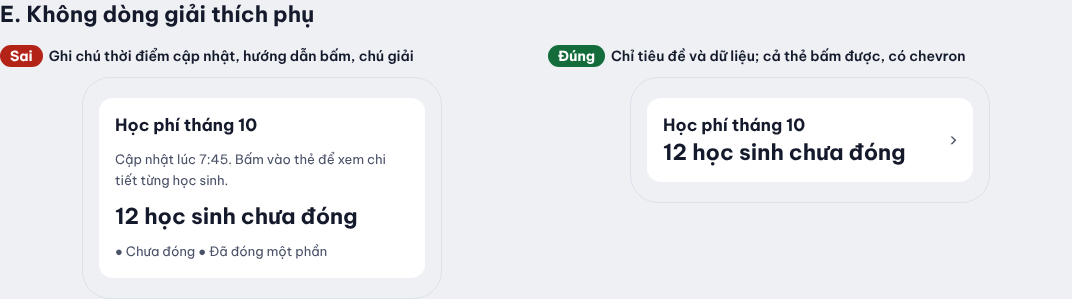
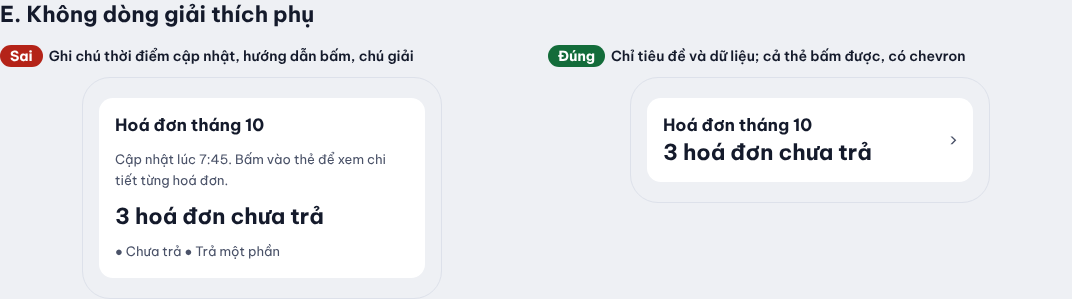
Ví dụ Sai/Đúng: đổi sang nhiều lĩnh vực trung lập
Bán hàng, giao hàng, bài viết, lịch hẹn, hoá đơn, hỗ trợ khách hàng, ngân hàng,
phòng khám; bỏ bối cảnh trung tâm giáo dục để ví dụ không gắn với một dự án.

Claude-Session: https://claude.ai/code/session_01SboK9zdYjdTFr8m2DJkgNT

diff --git a/foundations/examples/index.html b/foundations/examples/index.html
@@ -72,21 +72,21 @@
     <div class="cols">
       <figure class="bad"><figcaption data-annotation><b>Sai</b>Sáu card cùng cỡ, mỗi card một màu: không biết nhìn đâu</figcaption>
         <div class="phone"><div class="grid2">
-          <div class="card" style="background:#e6ebf8"><p class="t-label">Học sinh</p><p class="t-num">128</p></div>
-          <div class="card" style="background:#e3f4ea"><p class="t-label">Lớp</p><p class="t-num">24</p></div>
-          <div class="card" style="background:#fdf1dc"><p class="t-label">Chờ duyệt</p><p class="t-num">5</p></div>
-          <div class="card" style="background:#fde8e6"><p class="t-label">Chưa thu</p><p class="t-num">12</p></div>
-          <div class="card" style="background:#efe6fb"><p class="t-label">Buổi hôm nay</p><p class="t-num">18</p></div>
-          <div class="card" style="background:#e1f3f7"><p class="t-label">Tin nhắn</p><p class="t-num">3</p></div>
+          <div class="card" style="background:#e6ebf8"><p class="t-label">Đơn mới</p><p class="t-num">32</p></div>
+          <div class="card" style="background:#e3f4ea"><p class="t-label">Khách hàng</p><p class="t-num">128</p></div>
+          <div class="card" style="background:#fdf1dc"><p class="t-label">Cần gửi</p><p class="t-num">14</p></div>
+          <div class="card" style="background:#fde8e6"><p class="t-label">Hoàn tiền</p><p class="t-num">2</p></div>
+          <div class="card" style="background:#efe6fb"><p class="t-label">Sắp hết hàng</p><p class="t-num">5</p></div>
+          <div class="card" style="background:#e1f3f7"><p class="t-label">Đánh giá mới</p><p class="t-num">9</p></div>
         </div></div>
       </figure>
       <figure class="good"><figcaption data-annotation><b>Đúng</b>Một card nổi bật ba tầng, nút trắng; phần còn lại lùi về một danh sách</figcaption>
         <div class="phone"><div class="stack">
-          <div class="hl"><p>Chờ duyệt</p><p class="big">5 đơn</p><p>3 chuyển lịch, 2 nghỉ học</p><button class="btn btn-white" type="button">Duyệt đơn</button></div>
+          <div class="hl"><p>Cần gửi hôm nay</p><p class="big">14 đơn</p><p>3 đơn đã quá hạn</p><button class="btn btn-white" type="button">Gửi đơn</button></div>
           <div class="card rows">
-            <div class="row"><span class="grow">Buổi hôm nay</span><span class="val">18</span><span class="chev">›</span></div>
-            <div class="row"><span class="grow">Học phí chưa thu</span><span class="val">12</span><span class="chev">›</span></div>
-            <div class="row"><span class="grow">Học sinh đang học</span><span class="val">128</span><span class="chev">›</span></div>
+            <div class="row"><span class="grow">Đơn mới</span><span class="val">32</span><span class="chev">›</span></div>
+            <div class="row"><span class="grow">Sắp hết hàng</span><span class="val">5</span><span class="chev">›</span></div>
+            <div class="row"><span class="grow">Đánh giá mới</span><span class="val">9</span><span class="chev">›</span></div>
           </div>
         </div></div>
       </figure>
@@ -99,21 +99,21 @@
     <div class="cols">
       <figure class="bad"><figcaption data-annotation><b>Sai</b>Nhãn cách đều ô trên và ô dưới, hai nhóm dính nhau</figcaption>
         <div class="phone"><div style="display:grid;gap:14px">
-          <label>Mã học sinh</label><div class="field">HS0412</div>
-          <label>Môn</label><div class="field">Toán</div>
-          <label>Giáo viên</label><div class="field">Cô Thu Hà</div>
-          <label>Ngày bắt đầu</label><div class="field">Thứ Hai 3/11</div>
+          <label>Họ tên</label><div class="field">Lê Minh Khoa</div>
+          <label>Số điện thoại</label><div class="field">0912 345 678</div>
+          <label>Địa chỉ</label><div class="field">24 Hàng Chiếu, Hà Nội</div>
+          <label>Ngày giao</label><div class="field">Thứ Hai 3/11</div>
         </div></div>
       </figure>
       <figure class="good"><figcaption data-annotation><b>Đúng</b>Nhãn sát ô, giữa nhóm gấp đôi trong nhóm</figcaption>
         <div class="phone"><div style="display:grid;gap:28px">
           <div style="display:grid;gap:16px">
-            <div style="display:grid;gap:6px"><label>Mã học sinh</label><div class="field">HS0412</div></div>
-            <div style="display:grid;gap:6px"><label>Môn</label><div class="field">Toán</div></div>
+            <div style="display:grid;gap:6px"><label>Họ tên</label><div class="field">Lê Minh Khoa</div></div>
+            <div style="display:grid;gap:6px"><label>Số điện thoại</label><div class="field">0912 345 678</div></div>
           </div>
           <div style="display:grid;gap:16px">
-            <div style="display:grid;gap:6px"><label>Giáo viên</label><div class="field">Cô Thu Hà</div></div>
-            <div style="display:grid;gap:6px"><label>Ngày bắt đầu</label><div class="field">Thứ Hai 3/11</div></div>
+            <div style="display:grid;gap:6px"><label>Địa chỉ</label><div class="field">24 Hàng Chiếu, Hà Nội</div></div>
+            <div style="display:grid;gap:6px"><label>Ngày giao</label><div class="field">Thứ Hai 3/11</div></div>
           </div>
         </div></div>
       </figure>
@@ -126,14 +126,14 @@
     <div class="cols">
       <figure class="bad"><figcaption data-annotation><b>Sai</b>Khoảng dòng 1,2 và tiêu đề IN HOA: dấu chồng chạm dòng trên</figcaption>
         <div class="phone"><div class="card stack">
-          <h3 style="text-transform:uppercase;line-height:1.1;font-size:20px">Nguyễn Thị Hường, lớp Tiếng Việt nâng cao</h3>
-          <p style="line-height:1.2">Thứ Bảy này trường tổ chức ngày hội đọc sách. Phụ huynh đăng ký tham gia trước thứ Năm để nhà trường chuẩn bị chỗ ngồi.</p>
+          <h3 style="text-transform:uppercase;line-height:1.1;font-size:20px">Hướng dẫn đổi trả trong ba mươi ngày</h3>
+          <p style="line-height:1.2">Sản phẩm còn nguyên tem được đổi miễn phí tại mọi cửa hàng. Mang theo hoá đơn hoặc mã đơn hàng để nhân viên kiểm tra nhanh hơn.</p>
         </div></div>
       </figure>
       <figure class="good"><figcaption data-annotation><b>Đúng</b>Thân 1,6, tiêu đề chữ thường 1,3</figcaption>
         <div class="phone"><div class="card stack">
-          <h3 style="line-height:1.3;font-size:20px">Nguyễn Thị Hường, lớp Tiếng Việt nâng cao</h3>
-          <p style="line-height:1.6">Thứ Bảy này trường tổ chức ngày hội đọc sách. Phụ huynh đăng ký tham gia trước thứ Năm để nhà trường chuẩn bị chỗ ngồi.</p>
+          <h3 style="line-height:1.3;font-size:20px">Hướng dẫn đổi trả trong ba mươi ngày</h3>
+          <p style="line-height:1.6">Sản phẩm còn nguyên tem được đổi miễn phí tại mọi cửa hàng. Mang theo hoá đơn hoặc mã đơn hàng để nhân viên kiểm tra nhanh hơn.</p>
         </div></div>
       </figure>
     </div>
@@ -145,19 +145,19 @@
     <div class="cols">
       <figure class="bad"><figcaption data-annotation><b>Sai</b>Card cao chỉ một dòng ở đầu; card danh sách có đệm trên dưới gấp đôi</figcaption>
         <div class="phone"><div class="stack">
-          <div class="card" style="height:150px"><h3>Lịch dạy hôm nay</h3></div>
+          <div class="card" style="height:150px"><h3>Lịch hẹn hôm nay</h3></div>
           <div class="card" style="padding:32px 16px"><div class="rows" style="padding:0">
-            <div class="row"><span class="grow">Toán 9A</span><span class="val">8:00</span></div>
-            <div class="row"><span class="grow">Toán 8B</span><span class="val">14:00</span></div>
+            <div class="row"><span class="grow">Cắt tóc, Anh Tú</span><span class="val">9:00</span></div>
+            <div class="row"><span class="grow">Gội đầu, Chị Lan</span><span class="val">14:00</span></div>
           </div></div>
         </div></div>
       </figure>
       <figure class="good"><figcaption data-annotation><b>Đúng</b>Card ôm nội dung; dòng đầu và cuối sát đệm thường của card</figcaption>
         <div class="phone"><div class="stack">
-          <h3>Lịch dạy hôm nay</h3>
+          <h3>Lịch hẹn hôm nay</h3>
           <div class="card rows">
-            <div class="row"><span class="grow">Toán 9A</span><span class="val">8:00</span></div>
-            <div class="row"><span class="grow">Toán 8B</span><span class="val">14:00</span></div>
+            <div class="row"><span class="grow">Cắt tóc, Anh Tú</span><span class="val">9:00</span></div>
+            <div class="row"><span class="grow">Gội đầu, Chị Lan</span><span class="val">14:00</span></div>
           </div>
         </div></div>
       </figure>
@@ -170,15 +170,15 @@
     <div class="cols">
       <figure class="bad"><figcaption data-annotation><b>Sai</b>Ghi chú thời điểm cập nhật, hướng dẫn bấm, chú giải</figcaption>
         <div class="phone"><div class="card stack">
-          <h3>Học phí tháng 10</h3>
-          <p class="t-label">Cập nhật lúc 7:45. Bấm vào thẻ để xem chi tiết từng học sinh.</p>
-          <p class="t-num">12 học sinh chưa đóng</p>
-          <p class="t-label">● Chưa đóng ● Đã đóng một phần</p>
+          <h3>Hoá đơn tháng 10</h3>
+          <p class="t-label">Cập nhật lúc 7:45. Bấm vào thẻ để xem chi tiết từng hoá đơn.</p>
+          <p class="t-num">3 hoá đơn chưa trả</p>
+          <p class="t-label">● Chưa trả ● Trả một phần</p>
         </div></div>
       </figure>
       <figure class="good"><figcaption data-annotation><b>Đúng</b>Chỉ tiêu đề và dữ liệu; cả thẻ bấm được, có chevron</figcaption>
         <div class="phone"><div class="card" style="display:flex;align-items:center;gap:12px">
-          <div style="flex:1;display:grid;gap:2px"><h3>Học phí tháng 10</h3><p class="t-num">12 học sinh chưa đóng</p></div>
+          <div style="flex:1;display:grid;gap:2px"><h3>Hoá đơn tháng 10</h3><p class="t-num">3 hoá đơn chưa trả</p></div>
           <span class="chev">›</span>
         </div></div>
       </figure>
@@ -191,16 +191,16 @@
     <div class="cols">
       <figure class="bad"><figcaption data-annotation><b>Sai</b>Thanh màu bên trái, phải đoán nghĩa từng màu</figcaption>
         <div class="phone"><div class="stack">
-          <div class="card" style="border-left:5px solid #b42318"><h3>Trần Gia Hân</h3><p class="t-label">HS0412</p></div>
-          <div class="card" style="border-left:5px solid #d97706"><h3>Lê Minh Khoa</h3><p class="t-label">HS0398</p></div>
-          <div class="card" style="border-left:5px solid #136c3a"><h3>Phạm Thu An</h3><p class="t-label">HS0377</p></div>
+          <div class="card" style="border-left:5px solid #b42318"><h3>Lỗi đăng nhập</h3><p class="t-label">#2041</p></div>
+          <div class="card" style="border-left:5px solid #d97706"><h3>Đổi email tài khoản</h3><p class="t-label">#2045</p></div>
+          <div class="card" style="border-left:5px solid #136c3a"><h3>Xuất hoá đơn VAT</h3><p class="t-label">#2047</p></div>
         </div></div>
       </figure>
-      <figure class="good"><figcaption data-annotation><b>Đúng</b>Avatar, tên, mã cùng nhau; trạng thái là chip có chữ</figcaption>
+      <figure class="good"><figcaption data-annotation><b>Đúng</b>Trạng thái là chip có chữ, đọc là hiểu</figcaption>
         <div class="phone"><div class="card rows">
-          <div class="row"><span class="avatar">GH</span><span class="grow"><b>Trần Gia Hân</b><br><span class="t-label">HS0412</span></span><span class="chip chip-alert">Nghỉ 3 buổi</span></div>
-          <div class="row"><span class="avatar">MK</span><span class="grow"><b>Lê Minh Khoa</b><br><span class="t-label">HS0398</span></span><span class="chip">Chờ xếp lớp</span></div>
-          <div class="row"><span class="avatar">TA</span><span class="grow"><b>Phạm Thu An</b><br><span class="t-label">HS0377</span></span><span class="chip chip-brand">Đang học</span></div>
+          <div class="row"><span class="grow"><b>Lỗi đăng nhập</b><br><span class="t-label">#2041</span></span><span class="chip chip-alert">Quá hạn 2 ngày</span></div>
+          <div class="row"><span class="grow"><b>Đổi email tài khoản</b><br><span class="t-label">#2045</span></span><span class="chip">Chờ khách</span></div>
+          <div class="row"><span class="grow"><b>Xuất hoá đơn VAT</b><br><span class="t-label">#2047</span></span><span class="chip chip-brand">Đang xử lý</span></div>
         </div></div>
       </figure>
     </div>
@@ -212,15 +212,15 @@
     <div class="cols">
       <figure class="bad"><figcaption data-annotation><b>Sai</b>Nhãn ở mọi tab, chữ 11 px, tab chọn chỉ đổi màu chữ</figcaption>
         <div class="phone"><div style="display:flex;justify-content:space-around;padding:8px 0;border-radius:16px;background:#fff">
-          <span style="display:grid;justify-items:center;font-size:11px;color:var(--brand);font-weight:600"><svg width="22" height="22" viewBox="0 0 24 24" fill="none" stroke="currentColor" stroke-width="1.75"><path d="M3 11l9-7 9 7v9a1 1 0 0 1-1 1h-5v-6H9v6H4a1 1 0 0 1-1-1z"/></svg>Tổng quan</span>
-          <span style="display:grid;justify-items:center;font-size:11px;color:var(--ink-2)"><svg width="22" height="22" viewBox="0 0 24 24" fill="none" stroke="currentColor" stroke-width="1.75"><circle cx="12" cy="8" r="4"/><path d="M4 21c1-4 4-6 8-6s7 2 8 6"/></svg>Học sinh</span>
+          <span style="display:grid;justify-items:center;font-size:11px;color:var(--brand);font-weight:600"><svg width="22" height="22" viewBox="0 0 24 24" fill="none" stroke="currentColor" stroke-width="1.75"><path d="M3 11l9-7 9 7v9a1 1 0 0 1-1 1h-5v-6H9v6H4a1 1 0 0 1-1-1z"/></svg>Trang chủ</span>
+          <span style="display:grid;justify-items:center;font-size:11px;color:var(--ink-2)"><svg width="22" height="22" viewBox="0 0 24 24" fill="none" stroke="currentColor" stroke-width="1.75"><circle cx="12" cy="8" r="4"/><path d="M4 21c1-4 4-6 8-6s7 2 8 6"/></svg>Tài khoản</span>
           <span style="display:grid;justify-items:center;font-size:11px;color:var(--ink-2)"><svg width="22" height="22" viewBox="0 0 24 24" fill="none" stroke="currentColor" stroke-width="1.75"><rect x="4" y="5" width="16" height="15" rx="2"/><path d="M8 3v4M16 3v4M4 10h16"/></svg>Lịch</span>
           <span style="display:grid;justify-items:center;font-size:11px;color:var(--ink-2)"><svg width="22" height="22" viewBox="0 0 24 24" fill="none" stroke="currentColor" stroke-width="1.75"><path d="M4 5h16v11H8l-4 4z"/></svg>Tin nhắn</span>
         </div></div>
       </figure>
       <figure class="good"><figcaption data-annotation><b>Đúng</b>Tab chọn nở thành viên icon và nhãn, tab khác chỉ icon, viên không chạm mép</figcaption>
         <div class="phone"><nav class="nav" aria-label="Điều hướng chính">
-          <span class="on"><svg viewBox="0 0 24 24" stroke-width="1.75"><path d="M3 11l9-7 9 7v9a1 1 0 0 1-1 1h-5v-6H9v6H4a1 1 0 0 1-1-1z"/></svg>Tổng quan</span>
+          <span class="on"><svg viewBox="0 0 24 24" stroke-width="1.75"><path d="M3 11l9-7 9 7v9a1 1 0 0 1-1 1h-5v-6H9v6H4a1 1 0 0 1-1-1z"/></svg>Trang chủ</span>
           <span><svg viewBox="0 0 24 24" stroke-width="1.75"><circle cx="12" cy="8" r="4"/><path d="M4 21c1-4 4-6 8-6s7 2 8 6"/></svg></span>
           <span><svg viewBox="0 0 24 24" stroke-width="1.75"><rect x="4" y="5" width="16" height="15" rx="2"/><path d="M8 3v4M16 3v4M4 10h16"/></svg></span>
           <span><svg viewBox="0 0 24 24" stroke-width="1.75"><path d="M4 5h16v11H8l-4 4z"/></svg></span>
@@ -237,24 +237,24 @@
         <div class="phone"><div class="stack center">
           <div class="ok-icon"><svg viewBox="0 0 24 24" stroke-width="2"><path d="M5 12l5 5 9-10"/></svg></div>
           <h3 style="font-size:22px">Thành công!</h3>
-          <p class="muted">Hệ thống đã gửi thông báo tới phụ huynh và giáo viên liên quan.</p>
+          <p class="muted">Hệ thống đã gửi thông báo tới người nhận và lưu vào lịch sử giao dịch.</p>
           <button class="btn btn-primary" type="button">OK</button>
         </div></div>
       </figure>
       <figure class="good"><figcaption data-annotation><b>Đúng</b>Icon và "Đã …"; thẻ người; thẻ đậm khoá–giá trị kết thúc bằng "… lúc"; một dòng tóm tắt; nút</figcaption>
         <div class="phone"><div class="stack">
           <div class="ok-icon"><svg viewBox="0 0 24 24" stroke-width="2"><path d="M5 12l5 5 9-10"/></svg></div>
-          <h3 class="center" style="font-size:22px">Đã chuyển lịch</h3>
-          <div class="card" style="display:flex;align-items:center;gap:12px"><span class="avatar">GH</span><span><b>Trần Gia Hân</b><br><span class="t-label">HS0412</span></span></div>
+          <h3 class="center" style="font-size:22px">Đã chuyển tiền</h3>
+          <div class="card" style="display:flex;align-items:center;gap:12px"><span class="avatar">MK</span><span><b>Lê Minh Khoa</b><br><span class="t-label">Tài khoản ••4417</span></span></div>
           <div class="kv">
-            <div class="row"><span class="grow">Môn</span><span class="val">Toán</span></div>
-            <div class="row"><span class="grow">Lịch mới</span><span class="val">Thứ Ba, Thứ Năm 17:30</span></div>
-            <div class="row"><span class="grow">Áp dụng từ</span><span class="val">Thứ Hai 3/11</span></div>
+            <div class="row"><span class="grow">Số tiền</span><span class="val">1.250.000 ₫</span></div>
+            <div class="row"><span class="grow">Nội dung</span><span class="val">Tiền nhà tháng 11</span></div>
+            <div class="row"><span class="grow">Phí</span><span class="val">0 ₫</span></div>
             <div class="row"><span class="grow">Chuyển lúc</span><span class="val">14:20 Thứ Năm 30/10</span></div>
           </div>
-          <p class="center">Từ Thứ Hai 3/11, Gia Hân học Toán Thứ Ba và Thứ Năm.</p>
-          <button class="btn btn-primary" type="button">Về tổng quan</button>
-          <button class="btn btn-ghost" type="button">Xem lịch học</button>
+          <p class="center">Số dư còn 8.430.000 ₫.</p>
+          <button class="btn btn-primary" type="button">Về trang chủ</button>
+          <button class="btn btn-ghost" type="button">Chia sẻ biên lai</button>
         </div></div>
       </figure>
     </div>
